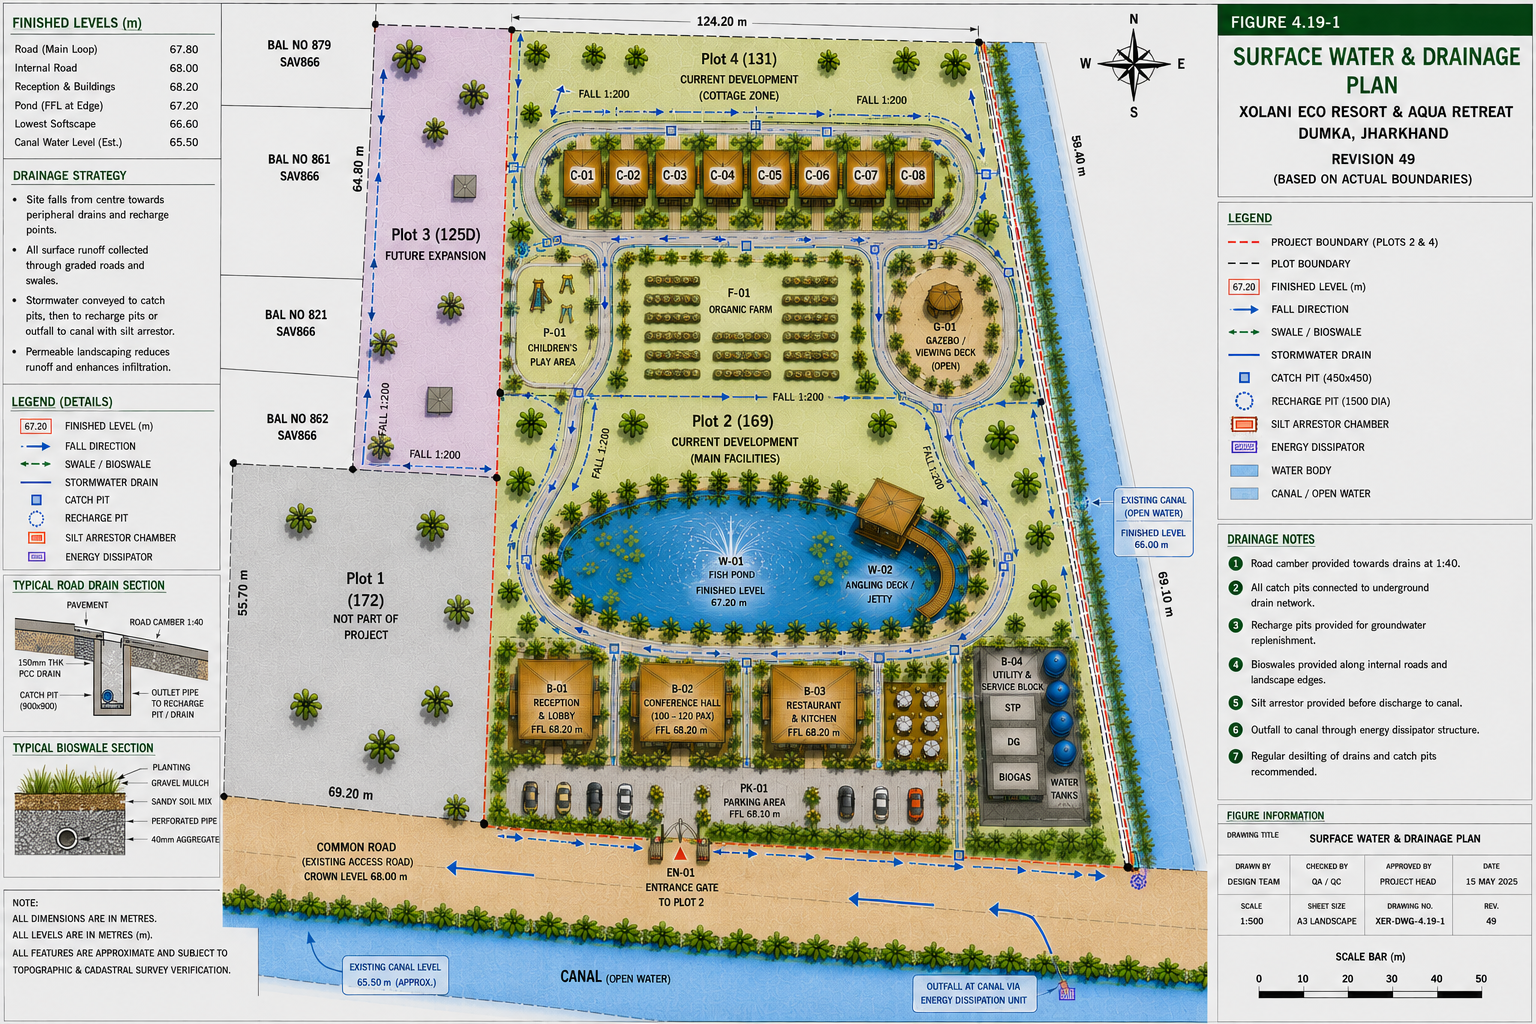
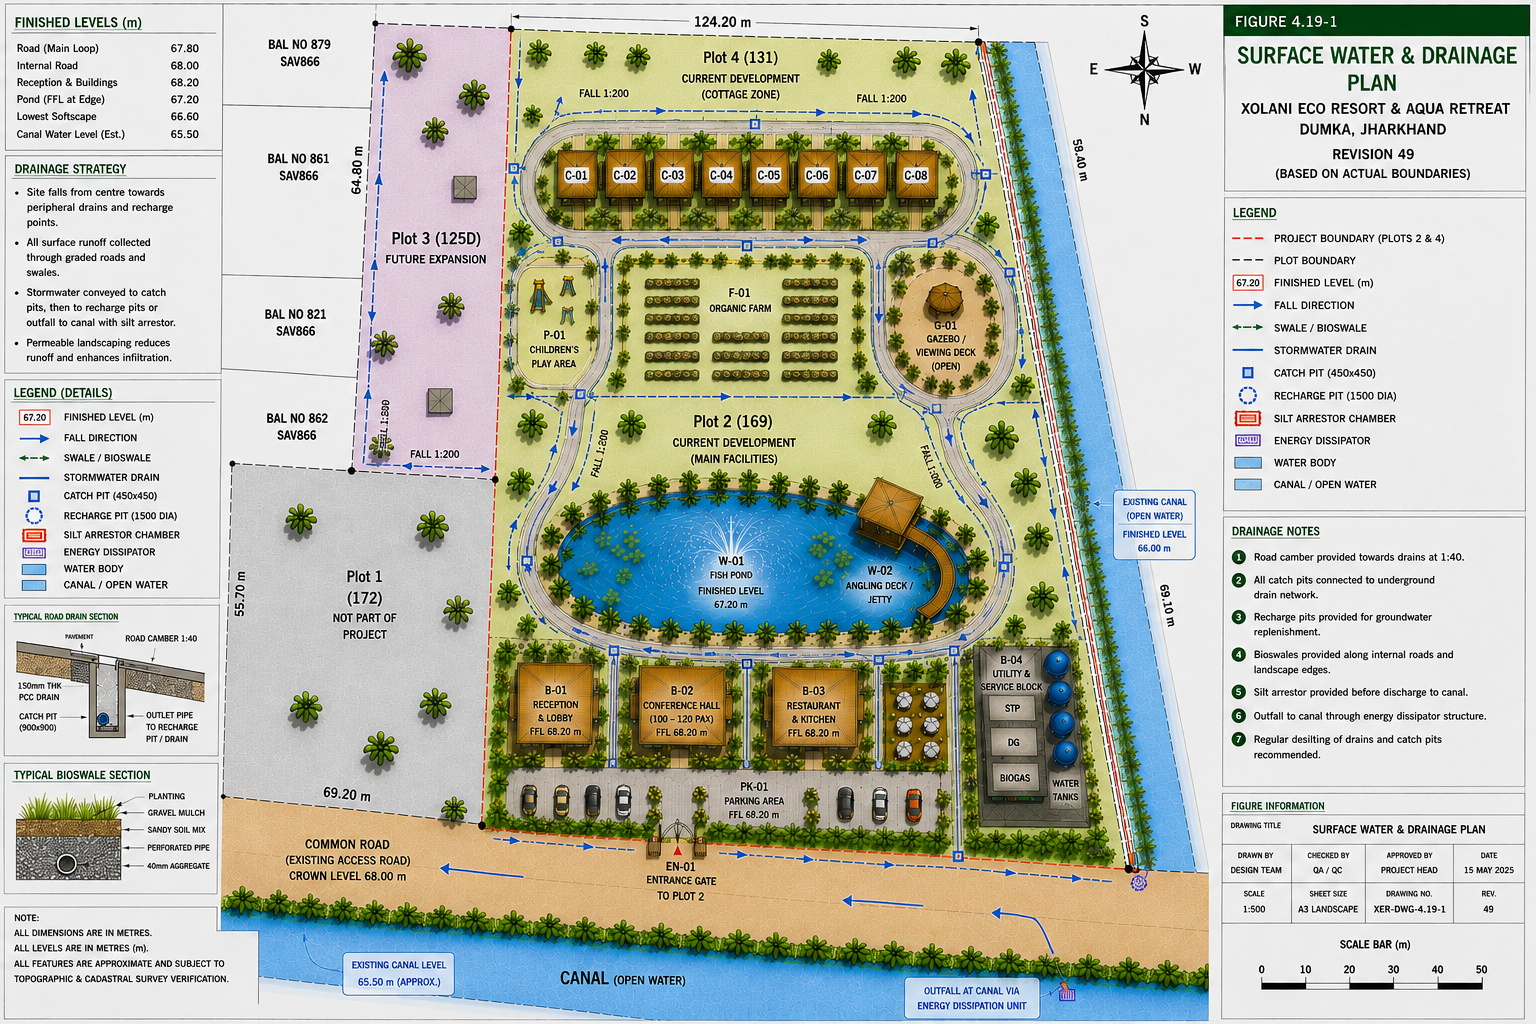
Approve AST-000026 Surface Water and Drainage Plan and DAR-026

diff --git a/engineering/DAR/DAR-026/DAR-026_Drawing_Analysis_Report.md b/engineering/DAR/DAR-026/DAR-026_Drawing_Analysis_Report.md
@@ -1,0 +1,61 @@
+# DAR-026 - Drawing Analysis Report
+
+## Controlled Asset
+
+- Asset ID: AST-000026
+- Original Filename: ChatGPT Image Jul 17, 2026, 07_57_04 PM.png
+- Repository Path: drawings/Current/ChatGPT Image Jul 17, 2026, 07_57_04 PM.png
+- DAR Reference: DAR-026
+- Approved Drawing SHA256: 1CA8FFA4E57479440C3CB3E87DC51B9002DF48B0E370C217053D274D5A3B9F26
+
+## Drawing Identity
+
+- Figure: Figure 4.19-1
+- Title: SURFACE WATER & DRAINAGE PLAN
+- Drawing Number: XER-DWG-4.19-1
+- Revision: 49
+- Date: 15 MAY 2025
+- Sheet: A3 Landscape
+- Scale: 1:500
+
+## Comparison Baseline
+
+AST-000018 through AST-000025 were used as approved
+project-orientation comparison baselines.
+
+The substantive Surface Water & Drainage Plan, site layout,
+drainage strategy, finished levels, drainage routes, fall directions,
+swales, bioswales, catch pits, recharge pits, silt arrestor chambers,
+energy dissipators, water bodies, canal relationship, annotations,
+dimensions, title block, revision, scale and site content were retained.
+
+## Approved Correction
+
+The compass was corrected only.
+
+The approved project orientation is:
+
+- North - down
+- South - up
+- East - left
+- West - right
+
+No drainage/fall arrows were reversed.
+
+No hydraulic flow directions were changed.
+
+No finished levels were changed.
+
+No site layout was changed.
+
+No canal, road, pond, building, drainage or infrastructure locations
+were intentionally changed.
+
+No other drawing content was intentionally changed.
+
+## Approved Status
+
+APPROVED
+
+AST-000026 is controlled as the Surface Water & Drainage Plan drawing,
+Figure 4.19-1.
